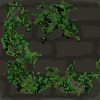
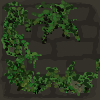
uued pildid, m6ned vajavad erkstamat v2rvi.

diff --git a/render.py b/render.py
@@ -85,7 +85,7 @@ class RenderPictures:
                     if terrain_value == None: pass
 
                     if terrain_value == 99:
-                        image_name = "Maze_Wall_" + str(random.randint(0, 5))
+                        image_name = "Maze_Wall_" + str(random.randint(0, 8))
                         image = ImageLoader.load_image(image_name)
 
                         position = (i, j)  # Using grid indices directly for the position
